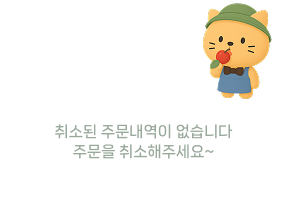
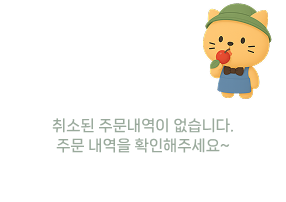
[eunhyo] feat: mypage 주소 동적 바인딩 추가, 리뷰 및 주문내역 페이지 알림 이미지 변경, css 수정

Changed region(s): [[0.1678, 0.5644, 0.8112, 0.802]]

diff --git a/src/main/webapp/css/storeconfirmedorder.css b/src/main/webapp/css/storeconfirmedorder.css
@@ -4,7 +4,7 @@
 }
 @font-face {
     font-family: 'nanumesquareneo_b';
-    src: url('font/NANUMSQUARENEO-BRG.ttf');
+    src: url('font/NanumSquareNeo-bRg.ttf');
 }
 
 body{
@@ -180,7 +180,6 @@ main {
 
 .order-list-area {
     padding: 18px 0;
-    min-height: 420px;
     background: #F5F3EA;
     border: 1.5px solid #bdbdbd;
     border-radius: 8px;
@@ -190,8 +189,7 @@ main {
     align-items: center;
     justify-content: flex-start;
     margin-bottom: 16px;
-    max-height: 610px;
-    height : 600px;
+    height: 582px;
     overflow-y: auto;
     overflow-x: hidden;
     scrollbar-width: none; 
@@ -205,53 +203,6 @@ main {
     width: 100%;
     height:100%;
     margin-top: 40px;
-}
-
-footer{
-    height: 120px;
-    border-top: solid 1px #717171;
-    margin-top: auto;
-    display: flex;
-    justify-content: center;
-    align-items: center;
-}
-
-.footer-container{
-    display: flex;
-    align-items: center;
-    justify-content: center;
-    width: 390px;
-    height: 74px;
-    background-color: #99A99B;
-    border-radius: 10px;
-}
-
-.menu-container{
-    display: flex;
-    align-items: center;
-    gap:25px;
-}
-
-.menu-item {
-    display: flex;
-    flex-direction: column;
-    justify-content: center;
-    align-items: center;
-    height: 55px;
-    width: 68px;
-    border-radius: 8px;
-    cursor: pointer;
-}
-
-.menu-item.active {
-    background-color: #F5F3EA; 
-}
-
-.menu-label {
-    font-size: 13px;
-    color: #444;
-    margin-top: 2px;
-    font-family: 'nanumesquareneo_b';
 }
 
 .order-card {

diff --git a/src/main/webapp/css/storeunconfirmedorder2.css b/src/main/webapp/css/storeunconfirmedorder2.css
@@ -276,7 +276,6 @@ main {
 
 .order-list-area {
     padding: 18px 0;
-    min-height: 420px;
     background: #F5F3EA;
     border: 1.5px solid #bdbdbd;
     border-radius: 8px;
@@ -286,8 +285,7 @@ main {
     align-items: center;
     justify-content: flex-start;
     margin-bottom: 16px;
-    max-height: 610px;
-    height: 600px;
+    height: 582px;
     overflow-y: auto;
     overflow-x: hidden;
     scrollbar-width: none; 
@@ -304,57 +302,11 @@ main {
 }
 
 .empty-img {
-    width: 340px;
+    width: 325px;
     display: block;
     margin-left: auto;
     margin-right: auto;
-}
-
-footer{
-    height: 120px;
-    border-top: solid 1px #717171;
-    margin-top: auto;
-    display: flex;
-    justify-content: center;
-    align-items: center;
-}
-
-.footer-container{
-    display: flex;
-    align-items: center;
-    justify-content: center;
-    width: 390px;
-    height: 74px;
-    background-color: #99A99B;
-    border-radius: 10px;
-}
-
-.menu-container{
-    display: flex;
-    align-items: center;
-    gap:25px;
-}
-
-.menu-item {
-    display: flex;
-    flex-direction: column;
-    justify-content: center;
-    align-items: center;
-    height: 55px;
-    width: 68px;
-    border-radius: 8px;
-    cursor: pointer;
-}
-
-.menu-item.active {
-    background-color: #F5F3EA; 
-}
-
-.menu-label {
-    font-size: 13px;
-    color: #444;
-    margin-top: 2px;
-    font-family: 'nanumesquareneo_b';
+    margin-top: -150px;
 }
 
 .order-card {

diff --git a/src/main/webapp/css/storecancledorder.css b/src/main/webapp/css/storecancledorder.css
@@ -187,7 +187,6 @@ main {
 
 .order-list-area {
     padding: 18px 0;
-    min-height: 420px;
     background: #F5F3EA;
     border: 1.5px solid #bdbdbd;
     border-radius: 8px;
@@ -197,8 +196,7 @@ main {
     align-items: center;
     justify-content: flex-start;
     margin-bottom: 16px;
-    max-height: 610px;
-    height : 600px;
+    height: 582px;
     overflow-y: auto;
     overflow-x: hidden;
     scrollbar-width: none; 
@@ -212,53 +210,6 @@ main {
     width: 100%;
     height:100%;
     margin-top: 40px;
-}
-
-footer{
-    height: 120px;
-    border-top: solid 1px #717171;
-    margin-top: auto;
-    display: flex;
-    justify-content: center;
-    align-items: center;
-}
-
-.footer-container{
-    display: flex;
-    align-items: center;
-    justify-content: center;
-    width: 390px;
-    height: 74px;
-    background-color: #99A99B;
-    border-radius: 10px;
-}
-
-.menu-container{
-    display: flex;
-    align-items: center;
-    gap:25px;
-}
-
-.menu-item {
-    display: flex;
-    flex-direction: column;
-    justify-content: center;
-    align-items: center;
-    height: 55px;
-    width: 68px;
-    border-radius: 8px;
-    cursor: pointer;
-}
-
-.menu-item.active {
-    background-color: #F5F3EA; 
-}
-
-.menu-label {
-    font-size: 13px;
-    color: #444;
-    margin-top: 2px;
-    font-family: 'nanumesquareneo_b';
 }
 
 .order-card {

diff --git a/src/main/webapp/css/storereview.css b/src/main/webapp/css/storereview.css
@@ -36,8 +36,17 @@ main {
 .review-section {
     width: 390px;
     margin: 24px 0 0 0;
+    display: flex;
+    flex-direction: column;
+    justify-content: center;
+    align-items: center;
 }
-
+.reviewHeader{
+    display: flex;
+    flex-direction: column;
+    justify-content: start;
+    width: 100%;
+}
 .review-title {
     font-size: 24px;
     font-weight: bold;
@@ -59,7 +68,7 @@ main {
     background: #F5F3EA;
     border: 1.5px solid #99A99B;
     border-radius: 8px;
-    min-height: 600px; 
+    height: 618px; 
     padding: 18px 10px;
     display: flex;
     flex-direction: column;
@@ -70,6 +79,7 @@ main {
     overflow-x: hidden;
     scrollbar-width: none;
     position: relative;
+    width: 375px;
 }
 
 .empty-reviews {
@@ -89,6 +99,7 @@ main {
     display: block;
     margin-left: auto;
     margin-right: auto;
+    margin-top: -85px;
 }
 
 .review-card {
@@ -140,6 +151,7 @@ main {
     font-size: 13px;
     margin-right: 8px;
     color: #000000;
+    margin-bottom: 5px;
 }
 
 .review-date {
@@ -150,9 +162,12 @@ main {
 }
 
 .review-text {
-    font-size: 11px;
-    color: #000000;
-    font-family: 'nanumesquareneo';
+    font-size: 13px;
+    color: #171717;
+    font-family: 'nanumesquareneo_b';
     line-height: 1.4;
+    overflow-y: auto;
+    max-height: 55px;
+    scrollbar-width: none;
 }
 
